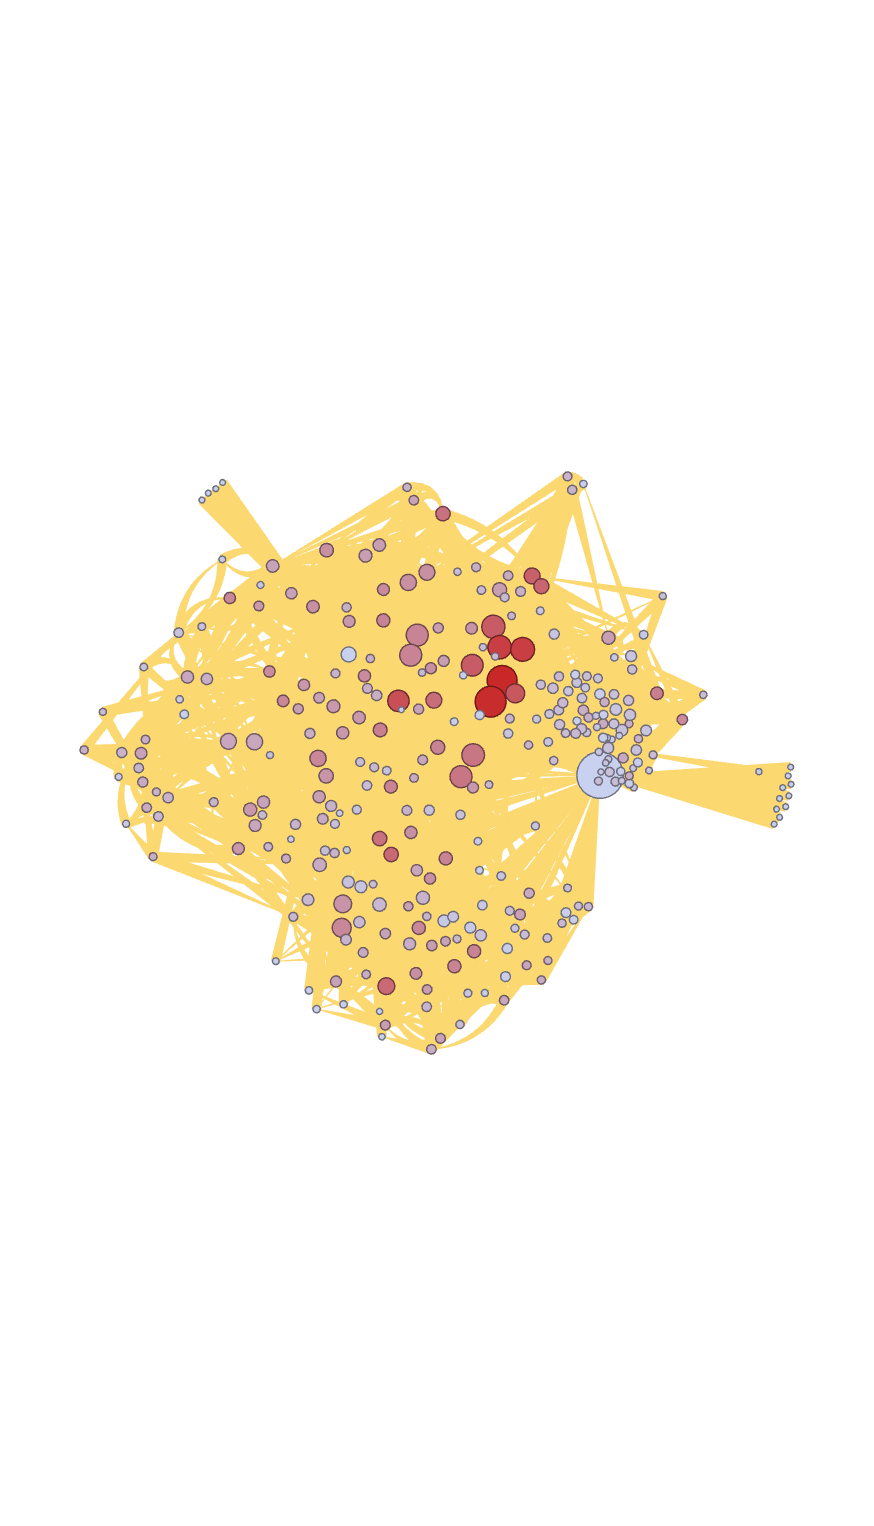
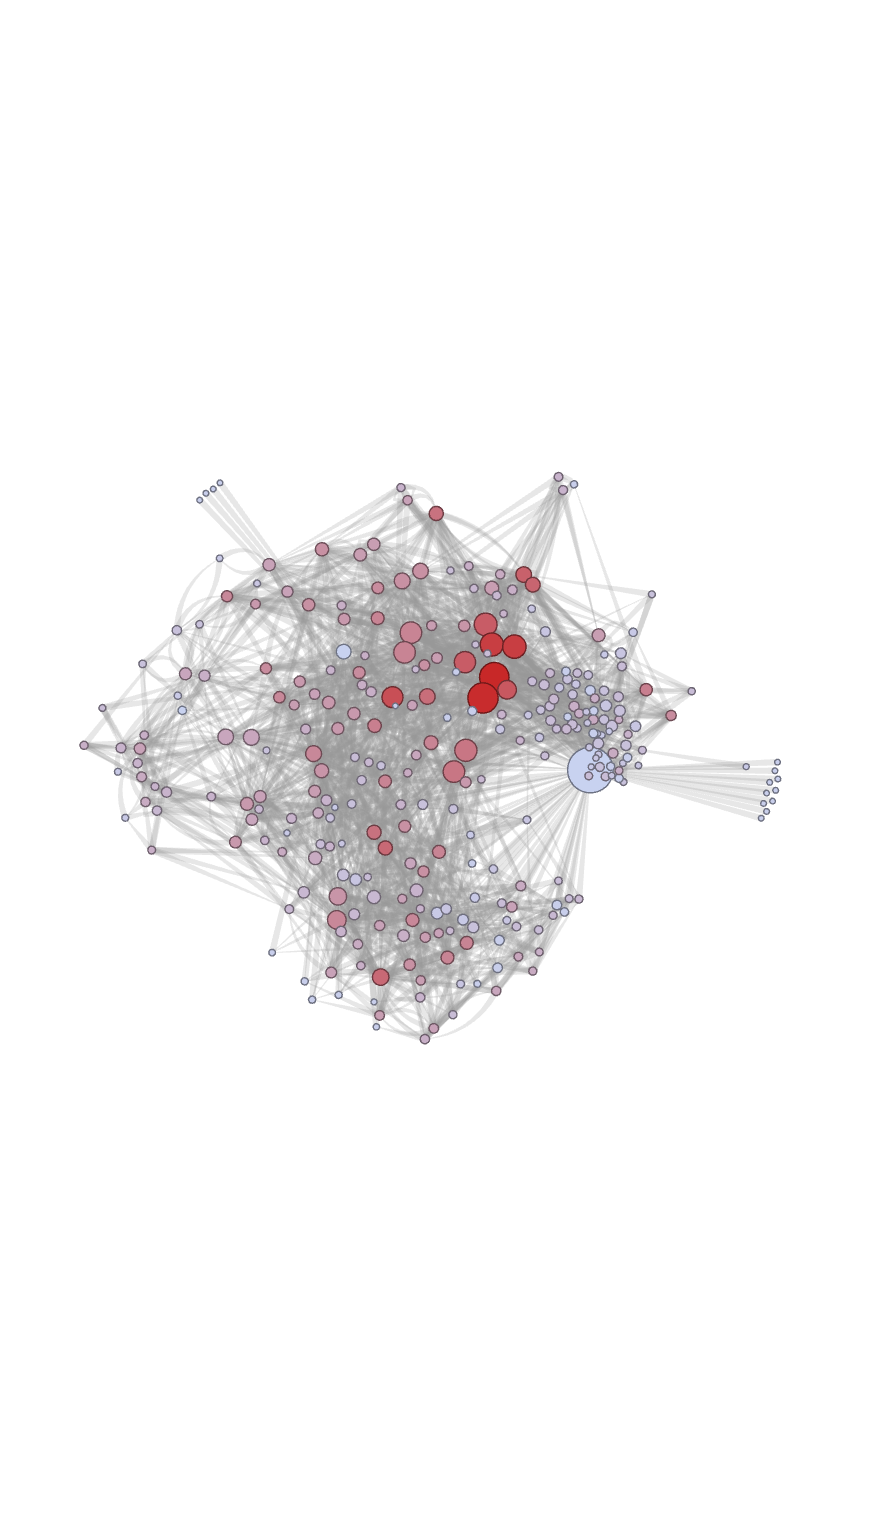
images

Changed region(s): [[0.0927, 0.308, 0.9268, 0.7084]]

diff --git a/cookbooks/epidemiology/cookbook.md b/cookbooks/epidemiology/cookbook.md
@@ -248,9 +248,11 @@ for b in [0.01, 0.02, 0.03, 0.05]:
     T = 1 - (1 - b) ** 5
     sz = outbreaks(200, beta=b, duration=5, show=False)
     print(b, round(T, 3), sz.large, round(sz.meanLarge / len(g.nodes), 2))
+spread(g.nodes[:1], beta=0.03, duration=5, steps=200, show=False)
+(infected_at >= 0).color = "220,60,50"   # one outbreak: the cluster of transmitting contacts around the first case
 ```
 
-![Bond percolation on the school's contacts: the largest cluster against the share of contacts that transmit](img/epi-percolation.png)
+![One outbreak with a fixed infectious period (red): exactly one cluster of contacts that transmit](img/epi-percolation.png)
 
 `duration=5` makes every infection last exactly 5 steps, instead of ending
 with chance γ each step. The threshold is then T_c = ⟨k⟩/(⟨k²⟩ − ⟨k⟩),
@@ -277,6 +279,8 @@ quiet stage before they become infectious.
 makeFromGDF("school-contacts-SIMULATED.gdf")
 c = spread(g.nodes[:3], model="SIS", beta=0.03, gamma=0.2, steps=300)
 plotScatter(degree, infected_steps, title="Time spent infected, by contacts")
+colorBy(infected_steps, "210,225,250", "200,30,30")   # red: infected most of the time
+sizeBy(degree, 6, 26)
 ```
 
 ![SIS in the school: pupils with more contacts are infected more of the time](img/epi-sis.png)

diff --git a/cookbooks/core/cookbook.md b/cookbooks/core/cookbook.md
@@ -357,7 +357,7 @@ plotScatter(degree, betweenness)                            # one dot per node
 plotScatter(degree, ends=true, line=[(1, 1), (36, 36)])     # degree at both ends of every edge
 ```
 
-![Betweenness against degree in Les Misérables](img/core-scatter.png)
+![Betweenness against degree in Les Misérables](img/app-core-scatter.png)
 
 **How it works.** `plotScatter(x, y)` draws one dot per node (or edge, for
 edge fields) in the element's own colour. Pointing at a dot highlights its
@@ -385,7 +385,7 @@ plotFrequency(degree, cumulative=true, log=true, fit=true)
 fitPowerLaw(degree)                       # {'alpha': ..., 'sigma': ..., 'kmin': ..., 'n': ..., 'ks': ...}
 ```
 
-![The cumulative degree distribution of 600 political blogs, with a fitted power law](img/core-power-law.png)
+![The cumulative degree distribution of 600 political blogs, with a fitted power law](img/app-core-power-law.png)
 
 ```python
 import csv
@@ -467,7 +467,7 @@ louvainClusters()
 showMatrix(order=louvain_class)
 ```
 
-![The karate club's adjacency matrix, ordered by community](img/core-matrix.png)
+![The karate club's adjacency matrix, ordered by community](img/app-core-matrix.png)
 
 ```python
 makeFromGDF("southern-women.gdf")

diff --git a/cookbooks/software/cookbook.md b/cookbooks/software/cookbook.md
@@ -101,7 +101,9 @@ labelBy(label)
 g.nodes.labelpos = "inside"
 fitNodesToLabels()
 rankNodes()                               # 0.97: the share of imports that point down
-orderedLayout(rank, axis="y", inverted=True)
+frLayout()                                # spread the modules out sideways first...
+orderedLayout(rank, axis="y", inverted=True)   # ...then set each one's height by its rank
+noverlapLayout()
 colorBy(rank, purple, lightgray)
 ```
 

diff --git a/cookbooks/biology/cookbook.md b/cookbooks/biology/cookbook.md
@@ -518,6 +518,8 @@ who receives them, and the hubs.
 
 ```python
 makeFromFile("celegans-neural.gdf")
+g.edges.width = 0.4                       # thin connections, so the neurons show
+g.edges.color = "150,150,150,60"
 sizeBy(degree, 3, 24)
 colorBy(outdegree, "200,210,240", "200,40,40")
 plotFrequency(degree, cumulative=True, log=True)

diff --git a/cookbooks/sna/cookbook.md b/cookbooks/sna/cookbook.md
@@ -534,6 +534,8 @@ for a, b, sg in ties:
     e = addEdge(g.getNodeByName(a), g.getNodeByName(b))
     e.sign = sg
 circleLayout()
+g.nodes.width = g.nodes.height = 30
+labelBy(name)
 r = structuralBalance(sign)
 colorize(camp)
 (sign < 0).linestyle = "dashed"
